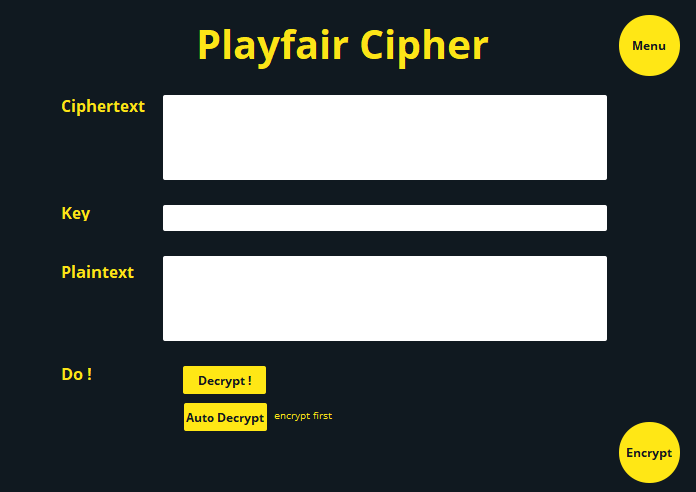
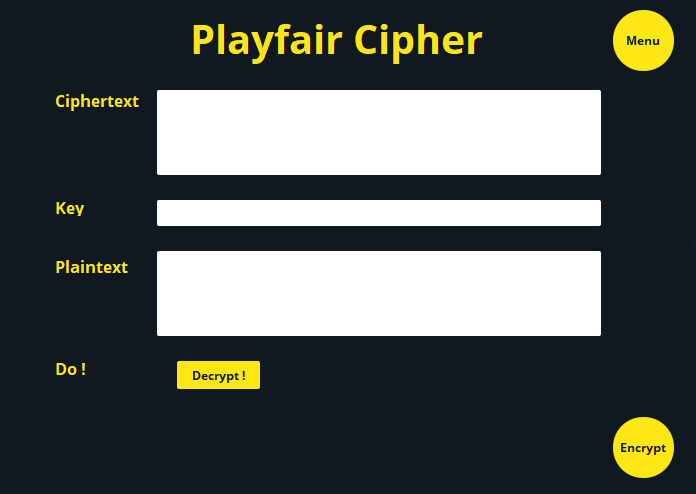
final push

diff --git a/src/playfairCipher.py b/src/playfairCipher.py
@@ -24,24 +24,15 @@ def encryptTextPFC(stringText, stringKey):
 
     return plainText, jMemory
 
-def decryptTextPFC(stringKey):
-    cipherText, jMemory = readPFCipherFile()
+def decryptTextPFC(cipherText, stringKey):
     plainText, key, bigramMemory = rulesSameRowsDec(cipherText, stringKey)
     plainText, key, bigramMemory = rulesSameColsDec(plainText, key, bigramMemory)
     plainText, key, bigramMemory = otherRules(plainText, key, bigramMemory)
 
-    plainText = reverseClean(plainText, jMemory)
+    plainText = reverseClean(plainText)
 
     return plainText
 
-def decryptTextPFCDiff(cipherText, stringKey):
-    plainText, key, bigramMemory = rulesSameRowsDec(cipherText, stringKey)
-    plainText, key, bigramMemory = rulesSameColsDec(plainText, key, bigramMemory)
-    plainText, key, bigramMemory = otherRules(plainText, key, bigramMemory)
-
-    plainText = reverseClean(plainText, [])
-
-    return plainText
 
 def matrixFactoryEnc(inputString):
     stringPFC = cleanTextAlphabet(inputString)
@@ -126,12 +117,9 @@ def cleanTextAlphabet(inputString):
 
     return cleanAlphabet
 
-def reverseClean(inputMatrix, jMemory):
+def reverseClean(inputMatrix):
     cleanText = ""
 
-    for index in jMemory:
-        inputMatrix[int(index) // 2][int(index) % 2] = 'J'
-    
     for row in range(0, len(inputMatrix)):
         for col in range(0,1):
             if (inputMatrix[row][col+1] == 'X') and (row != (len(inputMatrix)-1)):
@@ -139,10 +127,7 @@ def reverseClean(inputMatrix, jMemory):
                     inputMatrix[row][col+1] = ''
     
     cipherText = toText(inputMatrix)
-
-    plainText = readPlainText()
-
-    for index in range(0,len(plainText)):
+    for index in range(0,len(cipherText)):
         cleanText += cipherText[index]
 
     return cleanText

diff --git a/src/uiCipher.py b/src/uiCipher.py
@@ -99,21 +99,12 @@ class playfairCipherDec(QDialog):
         self.menu.clicked.connect(self.gotoMenu)
         self.encrypt.clicked.connect(self.gotoPFCEncrypt)
         self.decrypt.clicked.connect(self.decrypting)
-        self.autodecrypt.clicked.connect(self.autoDecrypting)
     
-    def autoDecrypting(self):
-        self.ciphertext.setText(playfairCipher.readCipher())
-        key = self.key.toPlainText()
-
-        plain = playfairCipher.decryptTextPFC(key)
-
-        self.plaintext.setText(plain)
-
     def decrypting(self):
         cipher = self.ciphertext.toPlainText()
         key = self.key.toPlainText()
 
-        plain = playfairCipher.decryptTextPFCDiff(cipher, key)
+        plain = playfairCipher.decryptTextPFC(cipher, key)
 
         self.plaintext.setText(plain)
 
